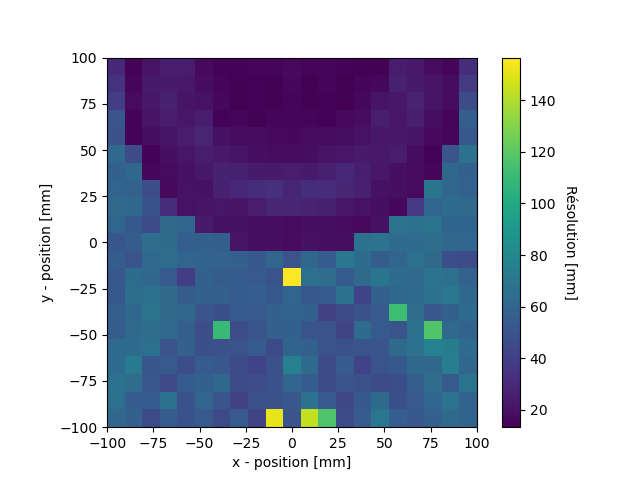
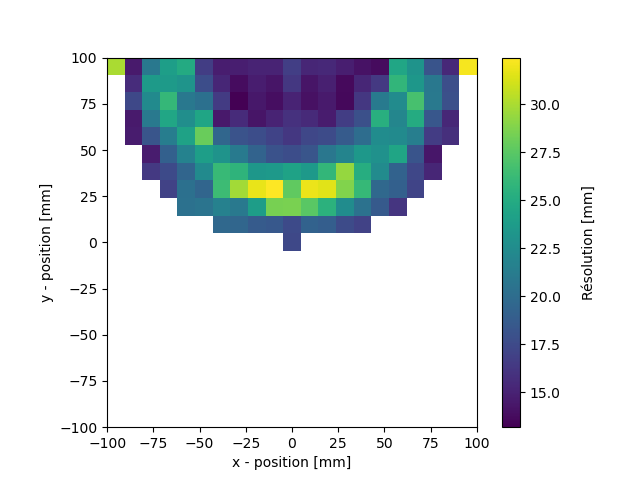
changed figures for prep

diff --git a/Mandat2/rapportPreparatoire.py b/Mandat2/rapportPreparatoire.py
@@ -16,14 +16,13 @@ def cont_res(x, y):
     right = int(contwidth[3][0])
     # calcule la moyenne de ces points comme baseline
     base = (np.mean(y[x < x[left]]) + np.mean(y[x > x[right]]))/2
-    contrast = 1 / base
-    print(max(y))
+    contrast = 1 - base
     # considère que le contraste est nulle si une mesure invalide est faite
     if np.isnan(contrast):
         contrast = 0
     return [contrast, resolution]
 
-carre = io.loadmat(r'DemiCercle\correl_demi_cercle.mat')
+carre = io.loadmat(r'Carree\carre.mat')
 position = io.loadmat(r'DemiCercle\position.mat')
 x_plot = io.loadmat(r'DemiCercle\x_plot.mat')
 
@@ -35,14 +34,32 @@ z =  np.array([cont_res(xSource,y) for y in correl])
 
 cont = z[:, 0]
 res = z[:, 1]
-x = pos[:, 0]*1e3
-y = pos[:, 1]*1e3
+x = pos[:, 0]*1e3 - 100
+y = pos[:, 1]*1e3 - 100
 
-x = x -100
-y = y - 100
+x = np.linspace(min(x), max(x), 21)
+y = np.linspace(min(y), max(y), 21)
+
 X, Y = np.meshgrid(x, y)
+
+
 Zres = np.reshape(res, (21, 21)).T*1e3
 Zcont = np.reshape(cont, (21, 21)).T
+#exclu les régions à l'extérieur des formes
+#condition = X**2 + (Y+100)**2 > 100**2
+#condition1 = (X-100)**2 + (Y+100)**2 < 75**2
+#Zres[condition1] = np.inf
+#Zres[2, 0:3] = np.inf
+#Zres[6:11, 0:7] = np.inf
+#Zres[7:9, 12:14] = np.inf
+#Zres[13:16,4:7] = np.inf
+
+#Zcont[condition1] = np.inf
+#Zcont[2, 0:3] = np.inf
+#Zcont[6:11, 0:7] = np.inf
+#Zcont[7:9, 12:14] = np.inf
+#Zcont[13:16,4:7] = np.inf
+#Zcont[condition] = np.inf
 # affichage des données dans des heatmaps
 
 plt.imshow(Zres, extent=[min(x), max(x), min(y), max(y)])
